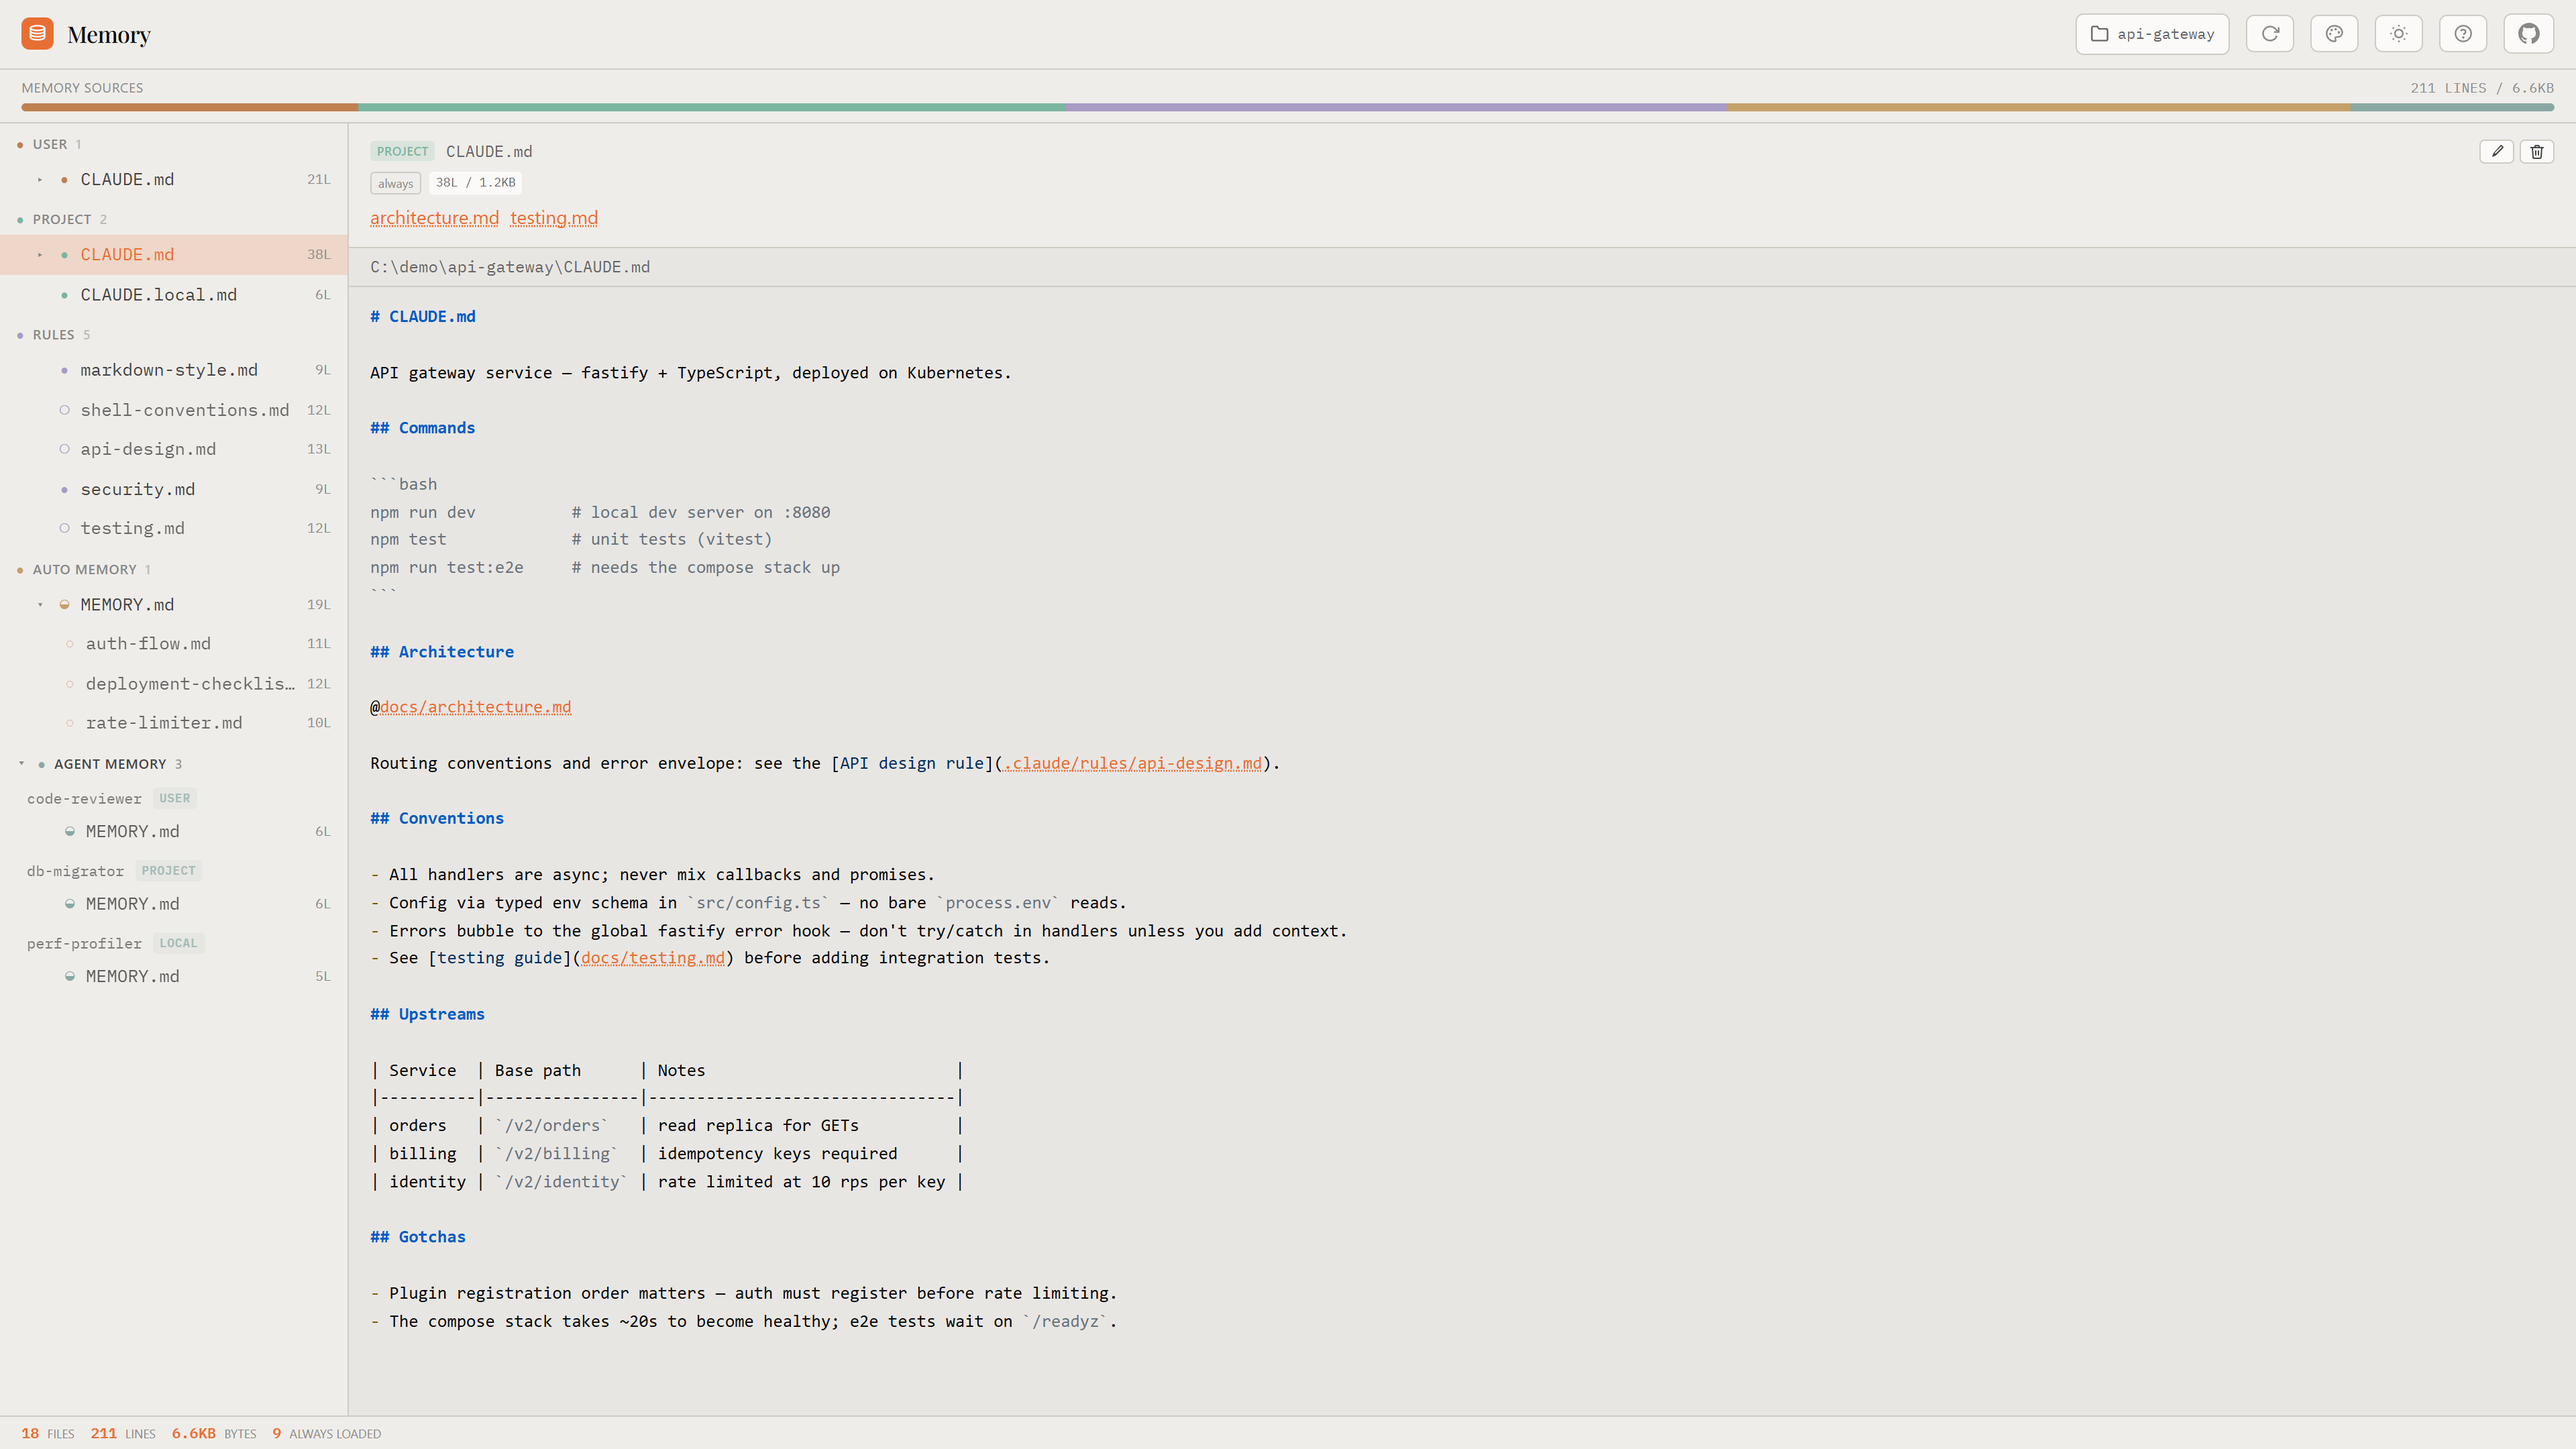
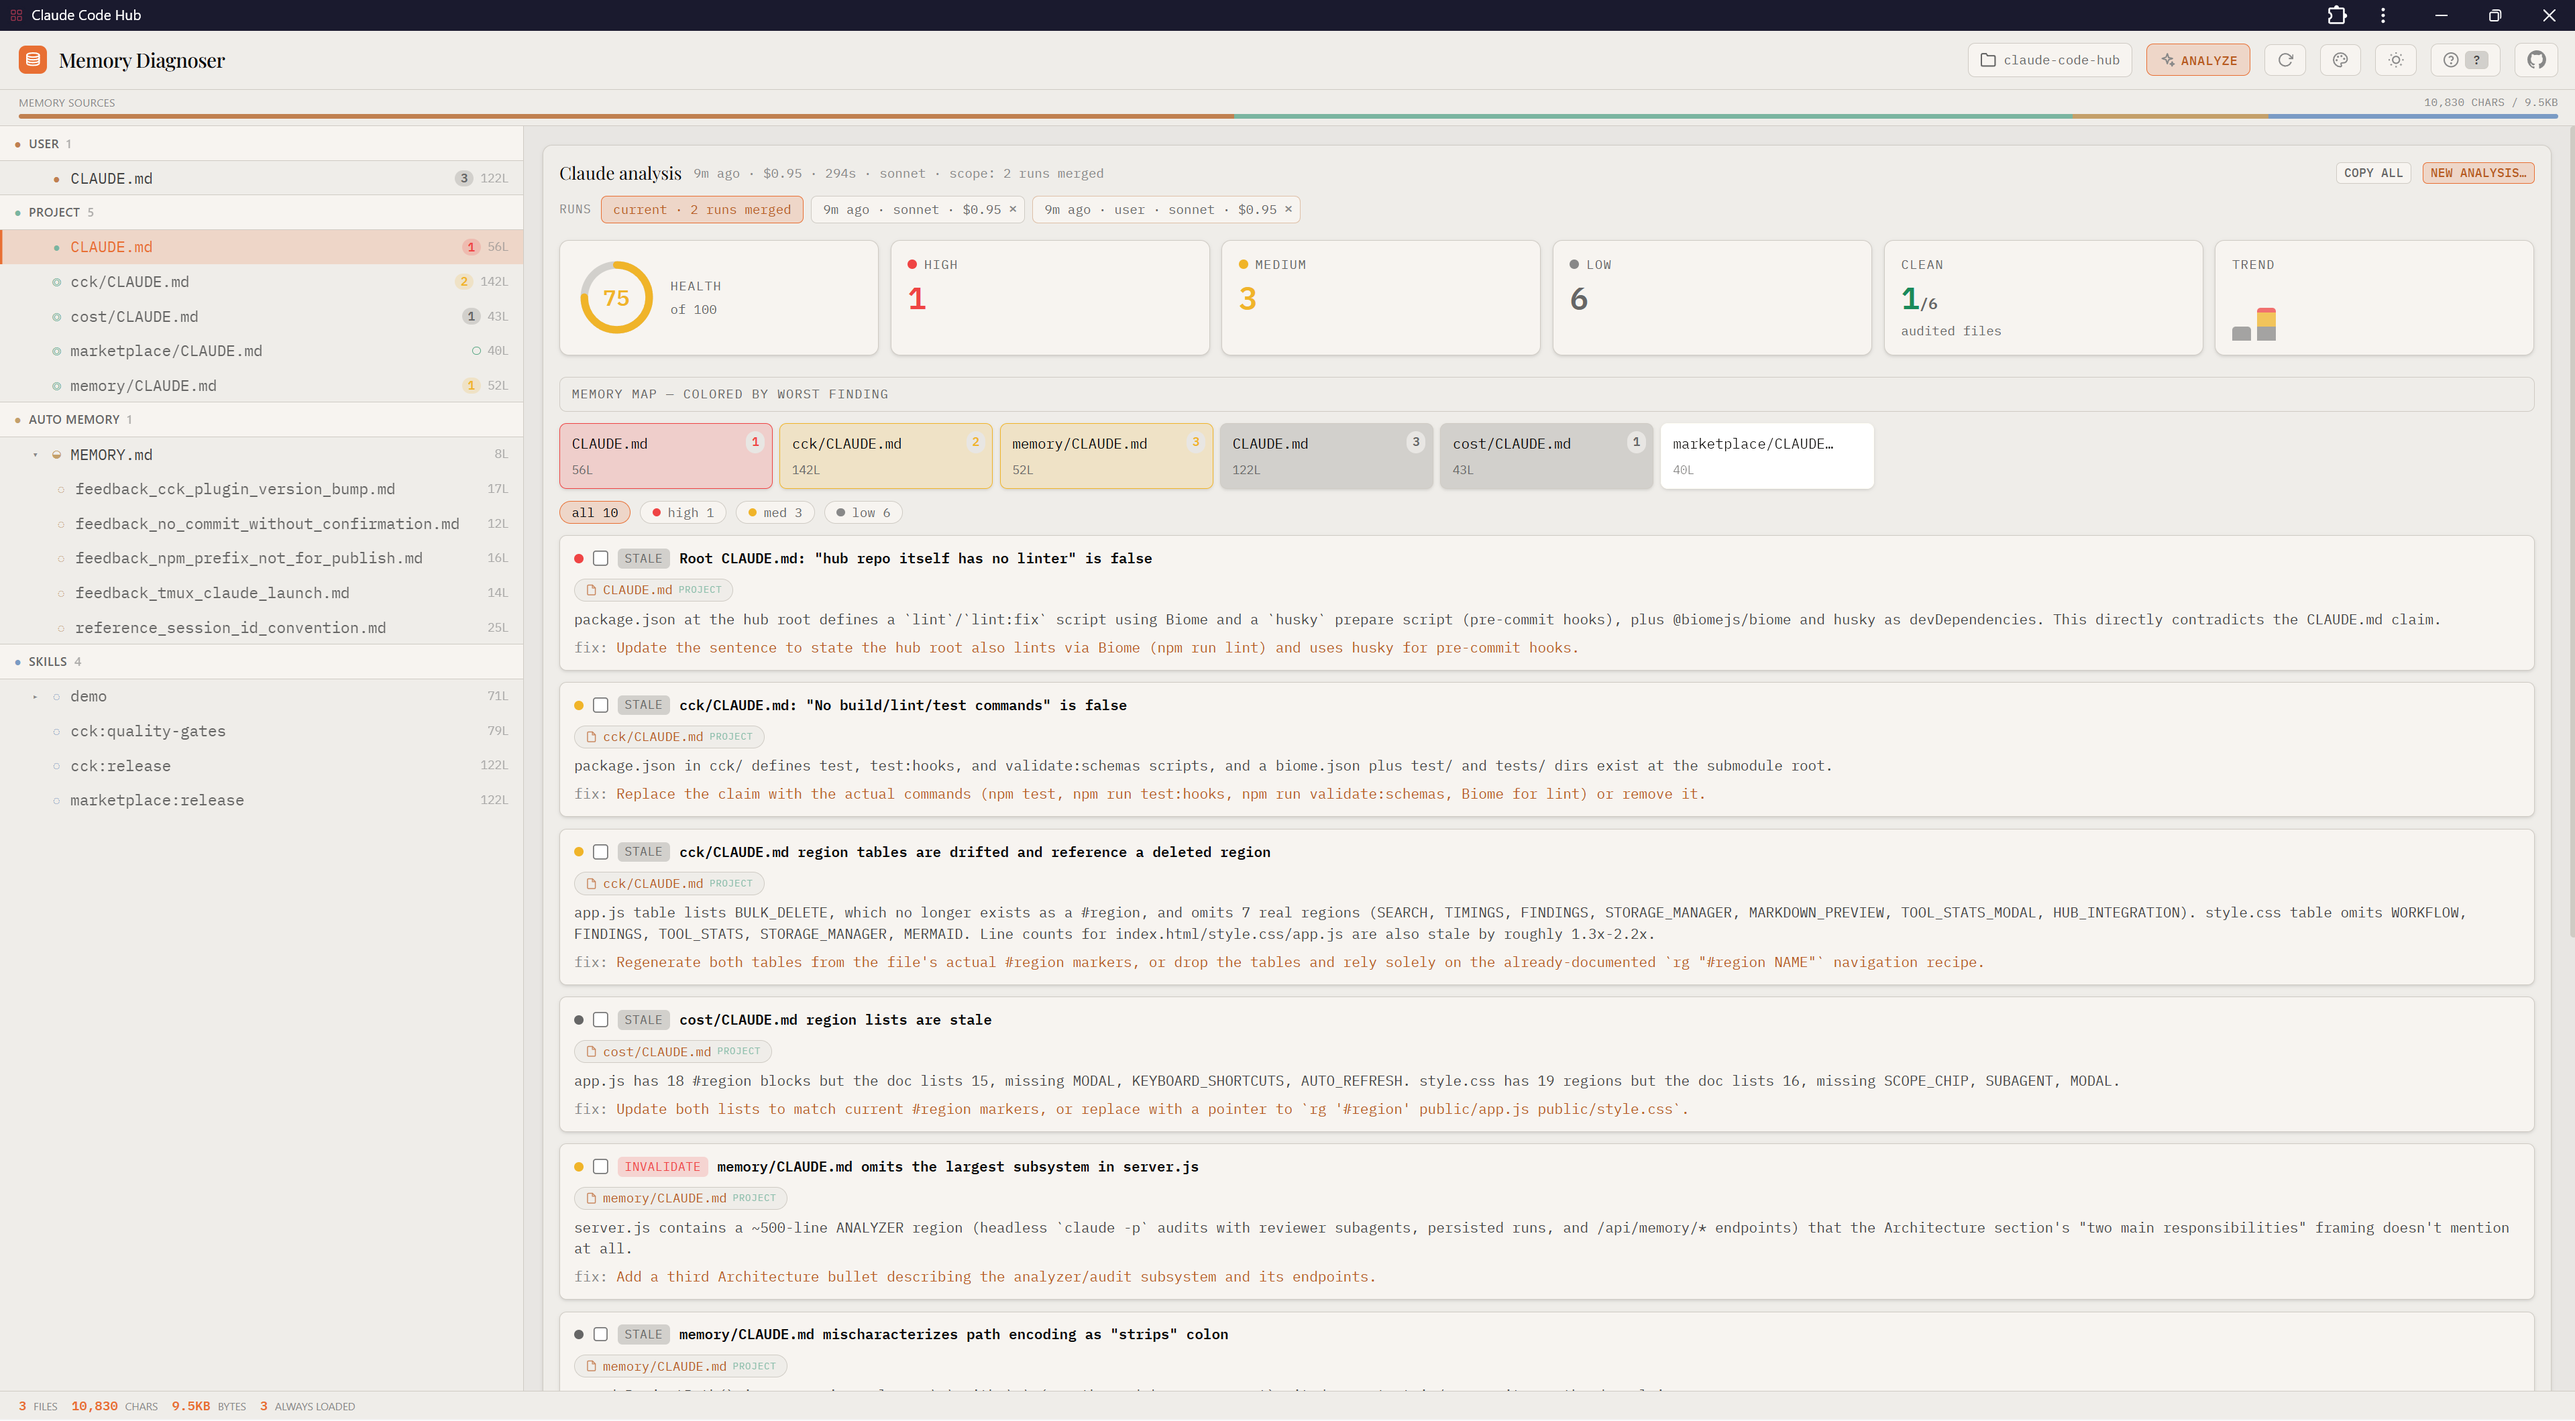
docs: rename memory explorer to diagnoser on landing page, update screenshot, bump memory submodule

diff --git a/docs/index.html b/docs/index.html
@@ -4,7 +4,7 @@
   <meta charset="UTF-8">
   <meta name="viewport" content="width=device-width, initial-scale=1.0">
   <title>Claude Code Hub — Kanban, Marketplace, Cost, and Memory Diagnoser in one place</title>
-  <meta name="description" content="Unified launcher for Claude Code tools. Kanban board, plugin marketplace, cost dashboard, and memory explorer — one command, one window.">
+  <meta name="description" content="Unified launcher for Claude Code tools. Kanban board, plugin marketplace, cost dashboard, and memory diagnoser — one command, one window.">
   <meta property="og:title" content="Claude Code Hub">
   <meta property="og:description" content="Kanban, Marketplace, Cost, and Memory Diagnoser in one place — one command, one window.">
   <meta property="og:type" content="website">
@@ -574,7 +574,7 @@
         </div>
       </div>
       <h1 class="fade-in delay-1">Hub for Claude<br>Code <em>Tools</em></h1>
-      <p class="hero-sub fade-in delay-2">Kanban board, plugin marketplace, cost dashboard, and memory explorer — unified in a single keyboard-driven launcher. Zero config.</p>
+      <p class="hero-sub fade-in delay-2">Kanban board, plugin marketplace, cost dashboard, and memory diagnoser — unified in a single keyboard-driven launcher. Zero config.</p>
       <div class="fade-in delay-3">
         <div class="install-block">
           <code><span class="prompt">$</span> npx claude-code-hub --open</code>
@@ -722,7 +722,7 @@
             What tools are included?
             <svg class="faq-chevron" viewBox="0 0 20 20" fill="none" stroke="currentColor" stroke-width="1.5"><path d="M5 8l5 5 5-5"/></svg>
           </button>
-          <div class="faq-a"><p><strong>Kanban</strong> — real-time task board. <strong>Marketplace</strong> — plugin browser and installer. <strong>Cost</strong> — usage and spend dashboard. <strong>Memory Diagnoser</strong> — memory source explorer. Each tool also works standalone.</p></div>
+          <div class="faq-a"><p><strong>Kanban</strong> — real-time task board. <strong>Marketplace</strong> — plugin browser and installer. <strong>Cost</strong> — usage and spend dashboard. <strong>Memory Diagnoser</strong> — memory stack viewer and auditor. Each tool also works standalone.</p></div>
         </div>
         <div class="faq-item fade-in delay-1">
           <button class="faq-q" onclick="toggleFaq(this)">
